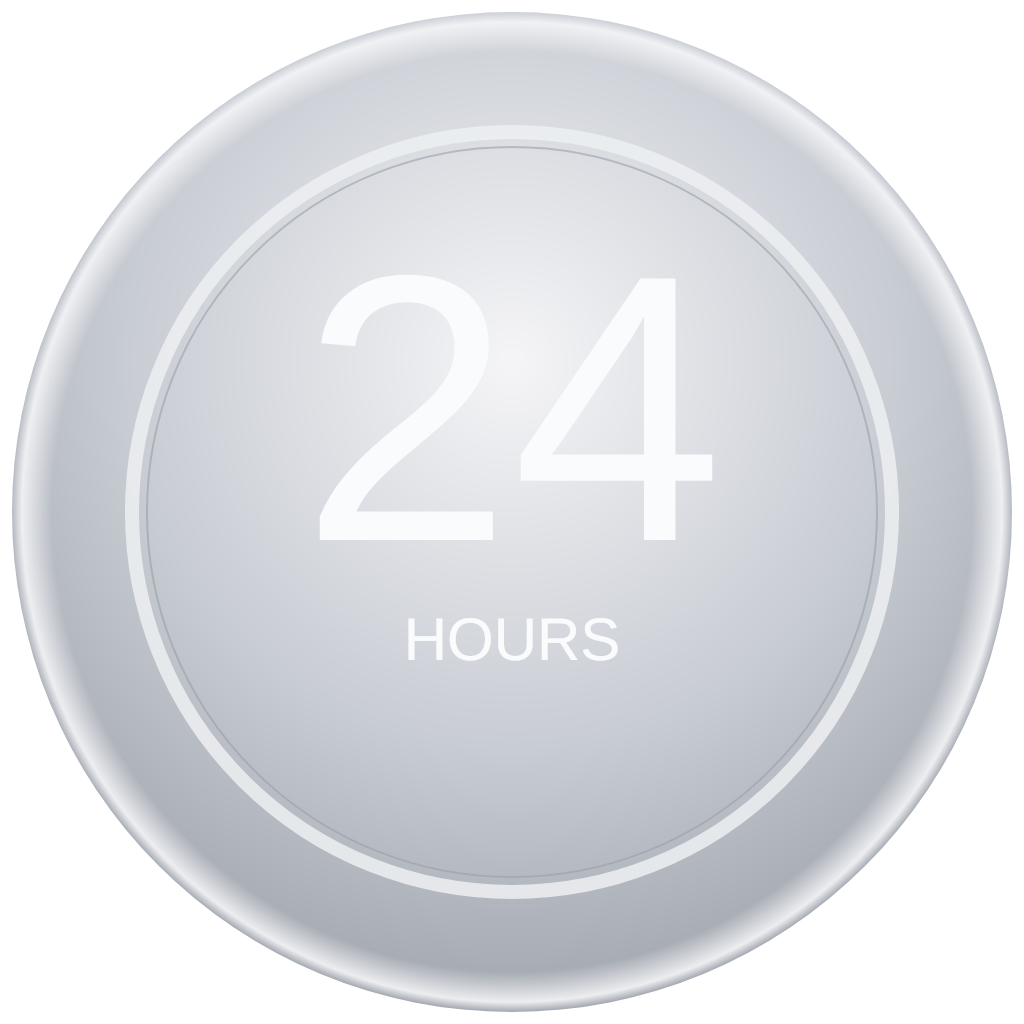
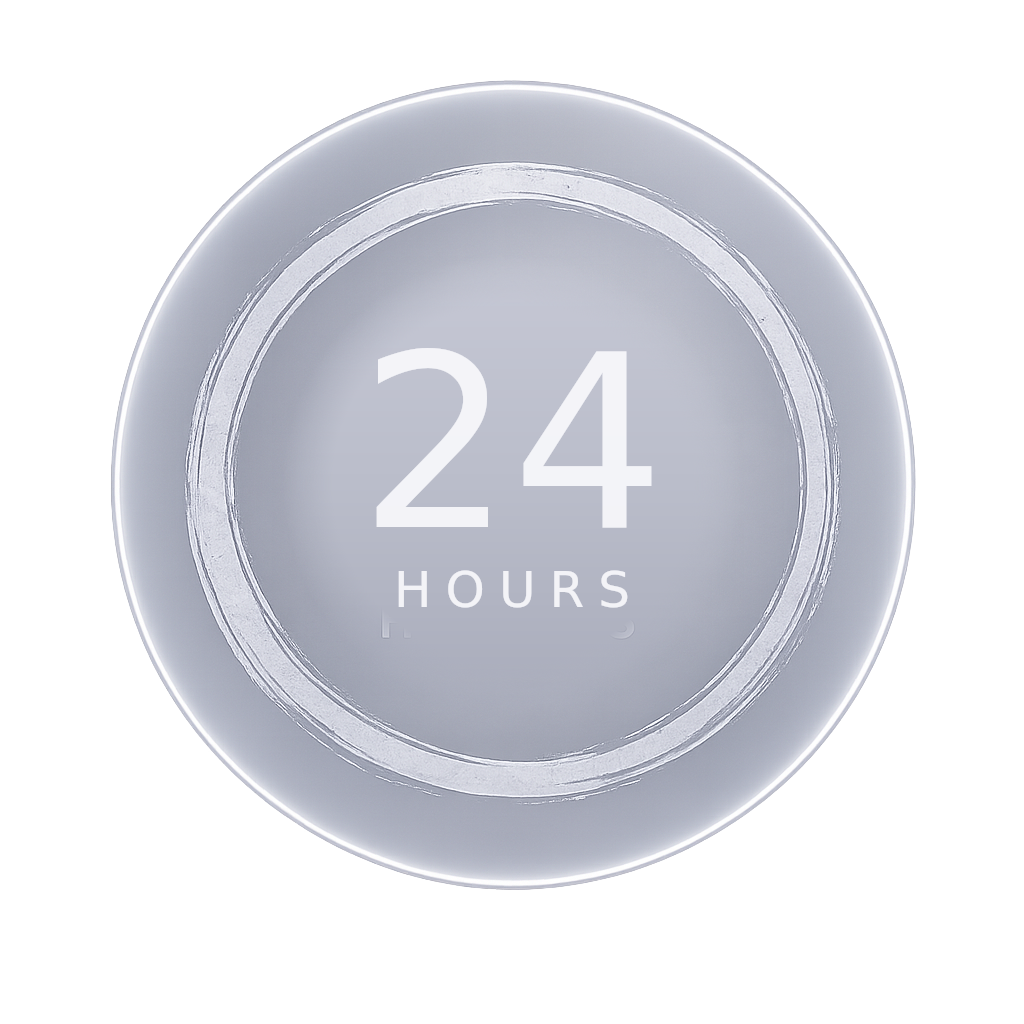
Composite badges on master template instead of pure SVG
Generator now loads public/badges/template.png, soft-masks the existing
"24 HOURS" text region with a gradient that matches the inner-disc lighting,
and draws the new duration text on top. Preserves the worn-chrome texture,
ring, and halo from the master while letting us swap the duration per badge.

https://claude.ai/code/session_01TqmVcPLJNZuf7Q6XCPWgNk

diff --git a/scripts/generate-badges.ts b/scripts/generate-badges.ts
@@ -1,113 +1,122 @@
-// Build SVG badges and rasterize to 1024x1024 PNGs.
-// Renders one badge per (duration, color) combo into public/badges/v1/preview/.
+// Build PNG badges by compositing on top of the master template.
+// Template lives at public/badges/template.png (1024x1024, "24 HOURS" worn-chrome disc).
+// For each duration we erase the existing center text by overlaying a
+// matching vertical gradient inside a soft circular mask, then draw the
+// new "<N> <UNIT>" text in a similar light/etched style.
 //
-// SVG approach: a chrome radial gradient for the disc, two concentric rings,
-// a big numeral, and a small spaced label. Colors are driven by the palette
-// passed in — gradient stops shift toward the chosen hue, rings + text stay
-// near-white so they read against the disc.
+// First-pass output goes to public/badges/v1/preview/ so it doesn't clobber
+// the existing AI-generated v1 badges until we sign off on the look.
 
 import fs from 'node:fs/promises'
 import path from 'node:path'
 import { fileURLToPath } from 'node:url'
 import { createCanvas, loadImage } from '@napi-rs/canvas'
+import type { SKRSContext2D } from '@napi-rs/canvas'
 
 const __dirname = path.dirname(fileURLToPath(import.meta.url))
 const ROOT = path.resolve(__dirname, '..')
+const TEMPLATE = path.join(ROOT, 'public/badges/template.png')
 const OUT_DIR = path.join(ROOT, 'public/badges/v1/preview')
 
 const SIZE = 1024
-
-type Palette = {
-  id: string            // filename suffix, e.g. "silver"
-  highlight: string     // top-of-disc color
-  mid: string           // mid-tone
-  shadow: string        // bottom-of-disc color
-  ring: string          // inner ring stroke
-  text: string          // numeral + label fill
-}
-
-const SILVER: Palette = {
-  id: 'silver',
-  highlight: '#f5f5f7',
-  mid: '#c8ccd3',
-  shadow: '#9aa0a8',
-  ring: '#eef0f2',
-  text: '#fafbfc',
-}
+// Center of badge inside the canvas (slightly above geometric center because
+// the template's original glow extends below the disc).
+const CX = 512
+const CY = 484
+// Radius of the area we want to repaint (inside the chrome ring).
+const FILL_R = 230
+// Soft feather radius — alpha fades from full at FILL_R*0.78 to 0 at FILL_R.
+const FEATHER_INNER = FILL_R * 0.78
 
 type Duration = {
-  slug: string          // filename, e.g. "24hours"
-  big: string           // top text, e.g. "24"
-  label: string         // bottom text, e.g. "HOURS"
+  slug: string
+  big: string
+  label: string
 }
 
-function buildSvg(d: Duration, p: Palette): string {
-  // Smaller numerals (4-char like "18") need a slight size bump-down so they
-  // don't crowd the rings. One char ("1") can go a touch bigger.
+// Erase the existing text region by overlaying a vertical gradient that
+// matches the inner-disc lighting, soft-masked at the edges so it blends
+// into the surrounding chrome instead of leaving a visible disc.
+function eraseCenterText(ctx: SKRSContext2D) {
+  const off = createCanvas(SIZE, SIZE)
+  const offCtx = off.getContext('2d')
+
+  // Vertical lighting matching the template (sampled values).
+  const grad = offCtx.createLinearGradient(0, CY - FILL_R, 0, CY + FILL_R)
+  grad.addColorStop(0, 'rgb(198, 200, 213)')
+  grad.addColorStop(0.5, 'rgb(186, 189, 202)')
+  grad.addColorStop(1, 'rgb(168, 171, 186)')
+  offCtx.fillStyle = grad
+  offCtx.fillRect(CX - FILL_R, CY - FILL_R, FILL_R * 2, FILL_R * 2)
+
+  // Soft circular alpha mask: opaque in center, fading to 0 at edge.
+  const mask = offCtx.createRadialGradient(CX, CY, FEATHER_INNER, CX, CY, FILL_R)
+  mask.addColorStop(0, 'rgba(0,0,0,1)')
+  mask.addColorStop(1, 'rgba(0,0,0,0)')
+  offCtx.globalCompositeOperation = 'destination-in'
+  offCtx.fillStyle = mask
+  offCtx.fillRect(CX - FILL_R, CY - FILL_R, FILL_R * 2, FILL_R * 2)
+
+  ctx.drawImage(off, 0, 0)
+}
+
+// Draw the big numeral and small label in a light, slightly transparent
+// white that approximates the etched-chrome look of the master template.
+function drawText(ctx: SKRSContext2D, d: Duration) {
   const bigLen = d.big.length
-  const bigSize = bigLen === 1 ? 460 : bigLen === 2 ? 380 : 300
+  const bigSize = bigLen === 1 ? 300 : bigLen === 2 ? 240 : 200
+  const labelSize = 50
 
-  return `<?xml version="1.0" encoding="UTF-8"?>
-<svg xmlns="http://www.w3.org/2000/svg" viewBox="0 0 ${SIZE} ${SIZE}" width="${SIZE}" height="${SIZE}">
-  <defs>
-    <radialGradient id="disc" cx="50%" cy="35%" r="70%">
-      <stop offset="0%"  stop-color="${p.highlight}"/>
-      <stop offset="55%" stop-color="${p.mid}"/>
-      <stop offset="100%" stop-color="${p.shadow}"/>
-    </radialGradient>
-    <radialGradient id="rim" cx="50%" cy="50%" r="50%">
-      <stop offset="92%" stop-color="${p.highlight}" stop-opacity="0"/>
-      <stop offset="98%" stop-color="${p.highlight}" stop-opacity="0.9"/>
-      <stop offset="100%" stop-color="${p.highlight}" stop-opacity="0"/>
-    </radialGradient>
-  </defs>
+  ctx.fillStyle = 'rgba(248, 249, 252, 0.92)'
+  ctx.textAlign = 'center'
+  ctx.textBaseline = 'alphabetic'
 
-  <!-- main disc -->
-  <circle cx="512" cy="512" r="500" fill="url(#disc)"/>
-  <!-- soft outer rim highlight -->
-  <circle cx="512" cy="512" r="500" fill="url(#rim)"/>
+  // Numeral
+  ctx.font = `300 ${bigSize}px "DejaVu Sans", "Liberation Sans", "FreeSans", sans-serif`
+  ctx.fillText(d.big, CX, CY + bigSize * 0.18)
 
-  <!-- inner chrome ring -->
-  <circle cx="512" cy="512" r="380" fill="none" stroke="${p.ring}" stroke-width="14" opacity="0.85"/>
-  <circle cx="512" cy="512" r="365" fill="none" stroke="${p.shadow}" stroke-width="2" opacity="0.6"/>
-
-  <!-- big numeral -->
-  <text x="512" y="540" text-anchor="middle"
-        font-family="Helvetica, Arial, sans-serif"
-        font-size="${bigSize}" font-weight="300"
-        fill="${p.text}" opacity="0.92">${d.big}</text>
-
-  <!-- bottom label -->
-  <text x="512" y="660" text-anchor="middle"
-        font-family="Helvetica, Arial, sans-serif"
-        font-size="60" font-weight="400" letter-spacing="14"
-        fill="${p.text}" opacity="0.9">${d.label}</text>
-</svg>`
+  // Label — manually space the letters since canvas has no letterSpacing.
+  ctx.font = `400 ${labelSize}px "DejaVu Sans", "Liberation Sans", "FreeSans", sans-serif`
+  const tracking = 14
+  const chars = d.label.split('')
+  let totalW = 0
+  const widths = chars.map((c) => {
+    const w = ctx.measureText(c).width
+    totalW += w
+    return w
+  })
+  totalW += tracking * (chars.length - 1)
+  let x = CX - totalW / 2
+  const y = CY + bigSize * 0.18 + 80
+  for (let i = 0; i < chars.length; i++) {
+    ctx.fillText(chars[i], x + widths[i] / 2, y)
+    x += widths[i] + tracking
+  }
 }
 
-async function renderBadge(d: Duration, p: Palette): Promise<Buffer> {
-  const svg = buildSvg(d, p)
-  const img = await loadImage(Buffer.from(svg))
+async function renderBadge(template: any, d: Duration): Promise<Buffer> {
   const canvas = createCanvas(SIZE, SIZE)
   const ctx = canvas.getContext('2d')
-  ctx.drawImage(img, 0, 0, SIZE, SIZE)
+  ctx.drawImage(template, 0, 0, SIZE, SIZE)
+  eraseCenterText(ctx)
+  drawText(ctx, d)
   return canvas.toBuffer('image/png')
 }
 
-// First small batch — silver only, mixed durations.
 const SAMPLE: Duration[] = [
-  { slug: '24hours',   big: '24', label: 'HOURS'  },
-  { slug: '6months',   big: '6',  label: 'MONTHS' },
-  { slug: '18months',  big: '18', label: 'MONTHS' },
-  { slug: '1year',     big: '1',  label: 'YEAR'   },
-  { slug: '5years',    big: '5',  label: 'YEARS'  },
+  { slug: '24hours',  big: '24', label: 'HOURS'  },
+  { slug: '6months',  big: '6',  label: 'MONTHS' },
+  { slug: '18months', big: '18', label: 'MONTHS' },
+  { slug: '1year',    big: '1',  label: 'YEAR'   },
+  { slug: '5years',   big: '5',  label: 'YEARS'  },
 ]
 
 async function main() {
+  const template = await loadImage(TEMPLATE)
   await fs.mkdir(OUT_DIR, { recursive: true })
   for (const d of SAMPLE) {
-    const buf = await renderBadge(d, SILVER)
-    const filename = `${d.slug}-${SILVER.id}.png`
+    const buf = await renderBadge(template, d)
+    const filename = `${d.slug}-silver.png`
     await fs.writeFile(path.join(OUT_DIR, filename), buf)
     console.log(`wrote ${filename}`)
   }

diff --git a/scripts/inspect-template.ts b/scripts/inspect-template.ts
@@ -1,0 +1,43 @@
+import { loadImage, createCanvas } from '@napi-rs/canvas'
+
+const img = await loadImage('/home/user/sobrcircle-site/public/badges/template.png')
+const w = img.width
+const h = img.height
+const canvas = createCanvas(w, h)
+const ctx = canvas.getContext('2d')
+ctx.drawImage(img, 0, 0)
+
+const data = ctx.getImageData(0, 0, w, h).data
+let minX = w
+let minY = h
+let maxX = 0
+let maxY = 0
+for (let y = 0; y < h; y++) {
+  for (let x = 0; x < w; x++) {
+    const a = data[(y * w + x) * 4 + 3]
+    if (a > 5) {
+      if (x < minX) minX = x
+      if (y < minY) minY = y
+      if (x > maxX) maxX = x
+      if (y > maxY) maxY = y
+    }
+  }
+}
+console.log(`badge bbox: x=${minX}-${maxX} y=${minY}-${maxY}`)
+console.log(`size: ${maxX - minX} x ${maxY - minY}`)
+console.log(`center: (${(minX + maxX) / 2}, ${(minY + maxY) / 2})`)
+
+const sample = (x: number, y: number): string => {
+  const i = (y * w + x) * 4
+  return `(${data[i]}, ${data[i + 1]}, ${data[i + 2]}, ${data[i + 3]})`
+}
+console.log(`top of badge (512, ${minY + 50}): ${sample(512, minY + 50)}`)
+console.log(`above text (512, 350): ${sample(512, 350)}`)
+console.log(`above text (512, 400): ${sample(512, 400)}`)
+console.log(`below text (512, 700): ${sample(512, 700)}`)
+console.log(`below text (512, 750): ${sample(512, 750)}`)
+console.log(`inside ring left (380, 500): ${sample(380, 500)}`)
+console.log(`inside ring right (644, 500): ${sample(644, 500)}`)
+console.log(`text area middle (512, 500): ${sample(512, 500)}`)
+console.log(`outside ring left (260, 512): ${sample(260, 512)}`)
+console.log(`outside ring right (770, 512): ${sample(770, 512)}`)
